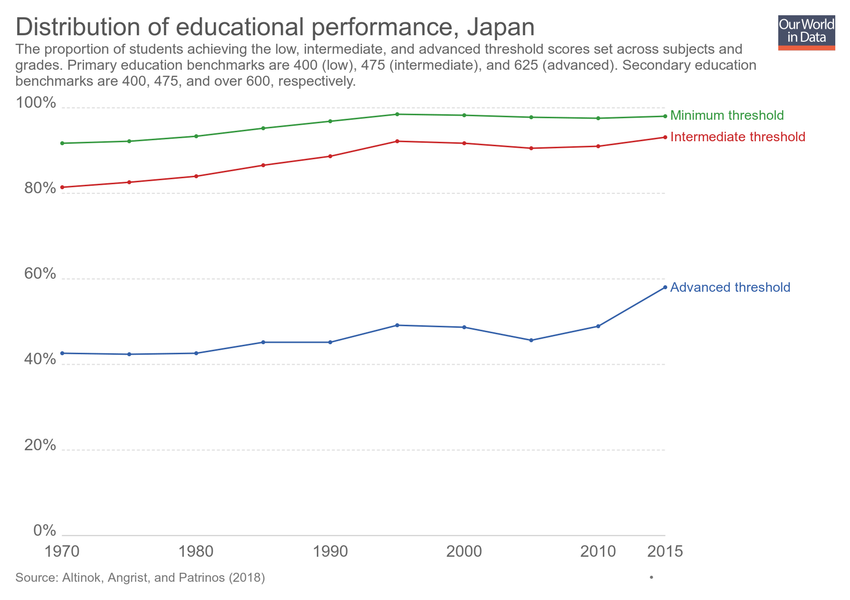
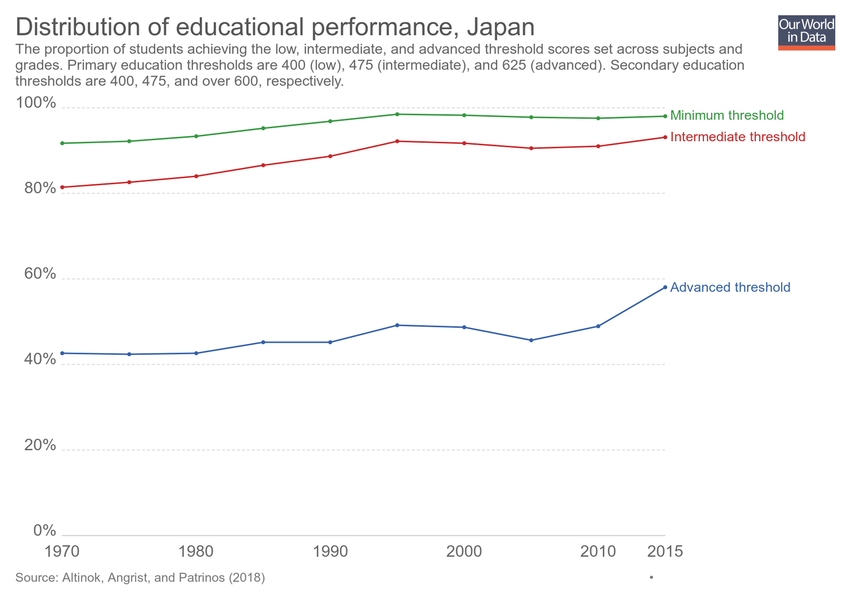
Updating chart distribution-of-educational-performance

Changed region(s): [[0.0, 0.09, 0.8871, 0.15]]

diff --git a/grapher/distribution-of-educational-performance.html b/grapher/distribution-of-educational-performance.html
@@ -1,4 +1,4 @@
-<!doctype html><html><head><meta name="viewport" content="width=device-width, initial-scale=1" /><title>Distribution of educational performance - Our World in Data</title><meta name="description" content="The proportion of students achieving the low, intermediate, and advanced threshold scores set across subjects and grades. Primary education benchmarks are 400 (low), 475 (intermediate), and 625 (advanced). Secondary education benchmarks are 400, 475, and over 600, respectively. " /><link rel="canonical" href="https://ourworldindata.org/grapher/distribution-of-educational-performance" /><meta property="fb:app_id" content="1149943818390250" /><meta property="og:url" content="https://ourworldindata.org/grapher/distribution-of-educational-performance" /><meta property="og:title" content="Distribution of educational performance" /><meta property="og:description" content="The proportion of students achieving the low, intermediate, and advanced threshold scores set across subjects and grades. Primary education benchmarks are 400 (low), 475 (intermediate), and 625 (advanced). Secondary education benchmarks are 400, 475, and over 600, respectively. " /><meta property="og:image" content="https://ourworldindata.org/grapher/exports/distribution-of-educational-performance.png?v=5" /><meta property="og:image:width" content="850" /><meta property="og:image:height" content="600" /><meta property="og:site_name" content="Our World in Data" /><meta name="twitter:card" content="summary_large_image" /><meta name="twitter:site" content="@OurWorldInData" /><meta name="twitter:creator" content="@OurWorldInData" /><meta name="twitter:title" content="Distribution of educational performance" /><meta name="twitter:description" content="The proportion of students achieving the low, intermediate, and advanced threshold scores set across subjects and grades. Primary education benchmarks are 400 (low), 475 (intermediate), and 625 (advanced). Secondary education benchmarks are 400, 475, and over 600, respectively. " /><meta name="twitter:image" content="https://ourworldindata.org/grapher/exports/distribution-of-educational-performance.png?v=5" /><style>
+<!doctype html><html><head><meta name="viewport" content="width=device-width, initial-scale=1" /><title>Distribution of educational performance - Our World in Data</title><meta name="description" content="The proportion of students achieving the low, intermediate, and advanced threshold scores set across subjects and grades. Primary education thresholds are 400 (low), 475 (intermediate), and 625 (advanced). Secondary education thresholds are 400, 475, and over 600, respectively. " /><link rel="canonical" href="https://ourworldindata.org/grapher/distribution-of-educational-performance" /><meta property="fb:app_id" content="1149943818390250" /><meta property="og:url" content="https://ourworldindata.org/grapher/distribution-of-educational-performance" /><meta property="og:title" content="Distribution of educational performance" /><meta property="og:description" content="The proportion of students achieving the low, intermediate, and advanced threshold scores set across subjects and grades. Primary education thresholds are 400 (low), 475 (intermediate), and 625 (advanced). Secondary education thresholds are 400, 475, and over 600, respectively. " /><meta property="og:image" content="https://ourworldindata.org/grapher/exports/distribution-of-educational-performance.png?v=7" /><meta property="og:image:width" content="850" /><meta property="og:image:height" content="600" /><meta property="og:site_name" content="Our World in Data" /><meta name="twitter:card" content="summary_large_image" /><meta name="twitter:site" content="@OurWorldInData" /><meta name="twitter:creator" content="@OurWorldInData" /><meta name="twitter:title" content="Distribution of educational performance" /><meta name="twitter:description" content="The proportion of students achieving the low, intermediate, and advanced threshold scores set across subjects and grades. Primary education thresholds are 400 (low), 475 (intermediate), and 625 (advanced). Secondary education thresholds are 400, 475, and over 600, respectively. " /><meta name="twitter:image" content="https://ourworldindata.org/grapher/exports/distribution-of-educational-performance.png?v=7" /><style>
         html, body {
             height: 100%;
             margin: 0;
@@ -20,8 +20,8 @@
         }
     </style><noscript><style>
                     figure { display: none !important; }
-                </style></noscript><link rel="stylesheet" href="https://ourworldindata.org/grapher/assets/commons.bundle.7bc7a3a90f15cac09df5.css" /><link rel="preload" href="/grapher/data/variables/97678+97677+97676.json?v=5" as="fetch" crossorigin /></head><body class="singleChart"><figure data-grapher-src="/grapher/distribution-of-educational-performance"></figure><noscript id="fallback"><img src="/grapher/exports/distribution-of-educational-performance.svg" /><p>Interactive visualization requires JavaScript</p></noscript><script src="https://cdn.polyfill.io/v2/polyfill.min.js?features=es6,fetch"></script><script src="https://ourworldindata.org/grapher/assets/commons.bundle.7bc7a3a90f15cac09df5.js"></script><script src="https://ourworldindata.org/grapher/assets/charts.bundle.7bc7a3a90f15cac09df5.js"></script><script>
-        var jsonConfig = {"id":2880,"map":{"projection":"World","targetYear":2015,"variableId":97678,"colorSchemeLabels":[],"colorSchemeValues":[],"customNumericColors":[],"customCategoryColors":{},"customCategoryLabels":{},"customHiddenCategories":{}},"tab":"chart","slug":"distribution-of-educational-performance","type":"LineChart","title":"Distribution of educational performance","xAxis":{"scaleType":"linear"},"yAxis":{"max":100,"min":0,"scaleType":"linear"},"version":5,"subtitle":"The proportion of students achieving the low, intermediate, and advanced threshold scores set across subjects and grades. Primary education benchmarks are 400 (low), 475 (intermediate), and 625 (advanced). Secondary education benchmarks are 400, 475, and over 600, respectively. ","hasMapTab":false,"stackMode":"absolute","dimensions":[{"display":{"name":"Advanced threshold"},"property":"y","variableId":97678},{"display":{"name":"Intermediate threshold"},"property":"y","variableId":97677},{"display":{"name":"Minimum threshold"},"property":"y","variableId":97676}],"hasChartTab":true,"isPublished":true,"selectedData":[{"index":0,"entityId":14},{"index":1,"entityId":14},{"index":2,"entityId":14}],"addCountryMode":"change-country"};
+                </style></noscript><link rel="stylesheet" href="https://ourworldindata.org/grapher/assets/commons.bundle.7bc7a3a90f15cac09df5.css" /><link rel="preload" href="/grapher/data/variables/97678+97677+97676.json?v=7" as="fetch" crossorigin /></head><body class="singleChart"><figure data-grapher-src="/grapher/distribution-of-educational-performance"></figure><noscript id="fallback"><img src="/grapher/exports/distribution-of-educational-performance.svg" /><p>Interactive visualization requires JavaScript</p></noscript><script src="https://cdn.polyfill.io/v2/polyfill.min.js?features=es6,fetch"></script><script src="https://ourworldindata.org/grapher/assets/commons.bundle.7bc7a3a90f15cac09df5.js"></script><script src="https://ourworldindata.org/grapher/assets/charts.bundle.7bc7a3a90f15cac09df5.js"></script><script>
+        var jsonConfig = {"id":2880,"map":{"projection":"World","targetYear":2015,"variableId":97678,"colorSchemeLabels":[],"colorSchemeValues":[],"customNumericColors":[],"customCategoryColors":{},"customCategoryLabels":{},"customHiddenCategories":{}},"tab":"chart","slug":"distribution-of-educational-performance","type":"LineChart","title":"Distribution of educational performance","xAxis":{"scaleType":"linear"},"yAxis":{"max":100,"min":0,"scaleType":"linear"},"version":7,"subtitle":"The proportion of students achieving the low, intermediate, and advanced threshold scores set across subjects and grades. Primary education thresholds are 400 (low), 475 (intermediate), and 625 (advanced). Secondary education thresholds are 400, 475, and over 600, respectively. ","hasMapTab":false,"stackMode":"absolute","dimensions":[{"display":{"name":"Advanced threshold"},"property":"y","variableId":97678},{"display":{"name":"Intermediate threshold"},"property":"y","variableId":97677},{"display":{"name":"Minimum threshold"},"property":"y","variableId":97676}],"hasChartTab":true,"isPublished":true,"selectedData":[{"index":0,"entityId":14},{"index":1,"entityId":14},{"index":2,"entityId":14}],"addCountryMode":"change-country"};
         var figure = document.getElementsByTagName("figure")[0];
         try {
             window.App = {};
